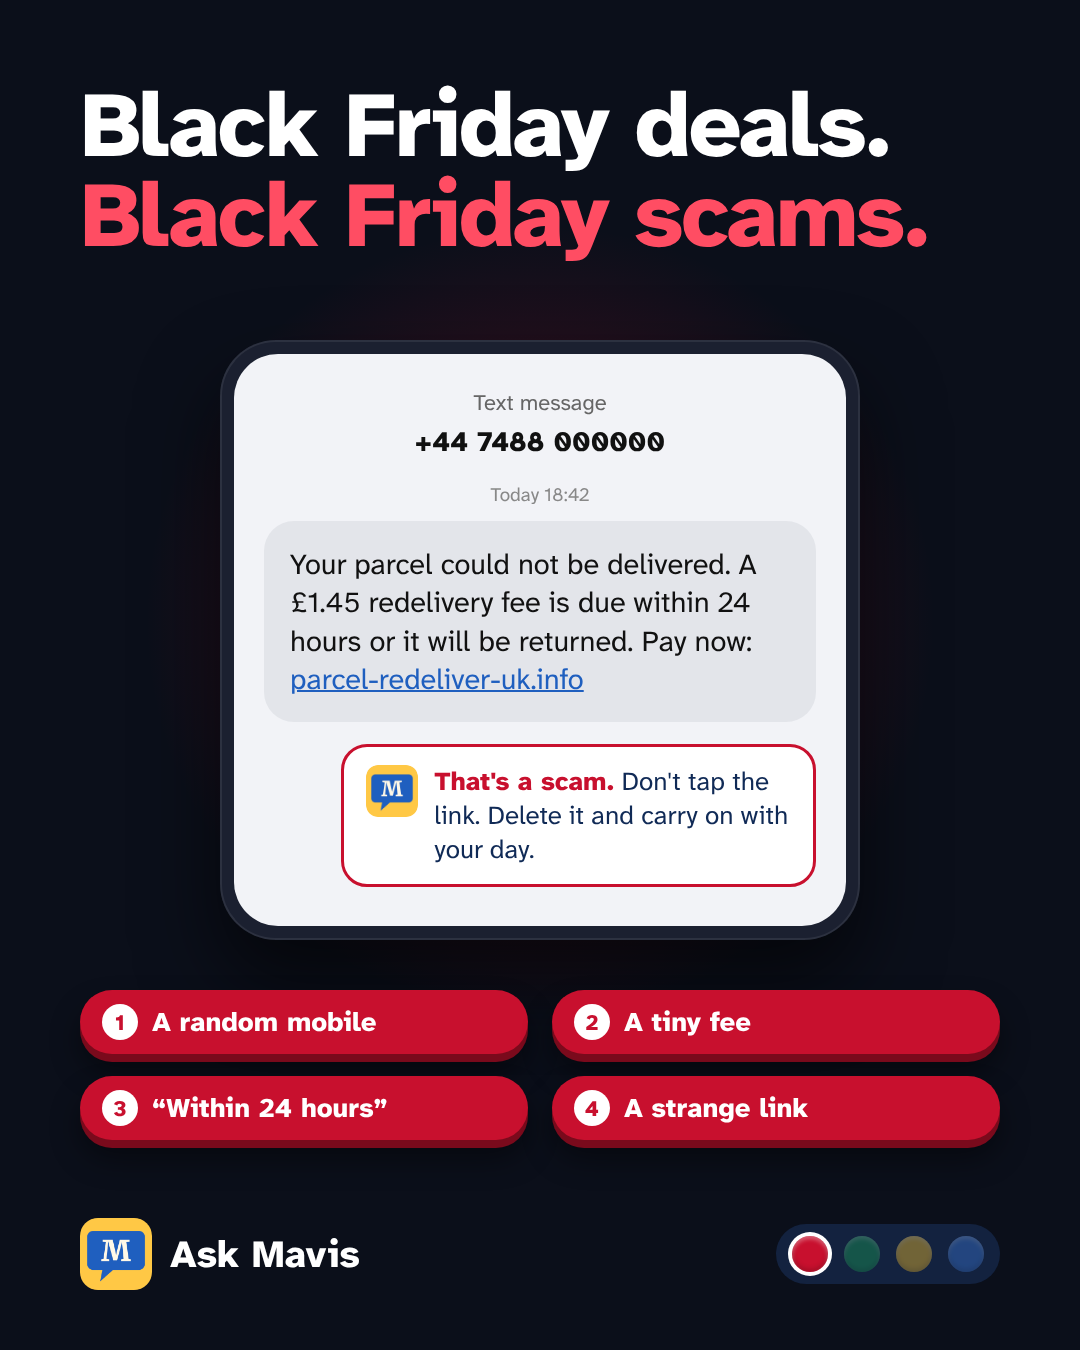
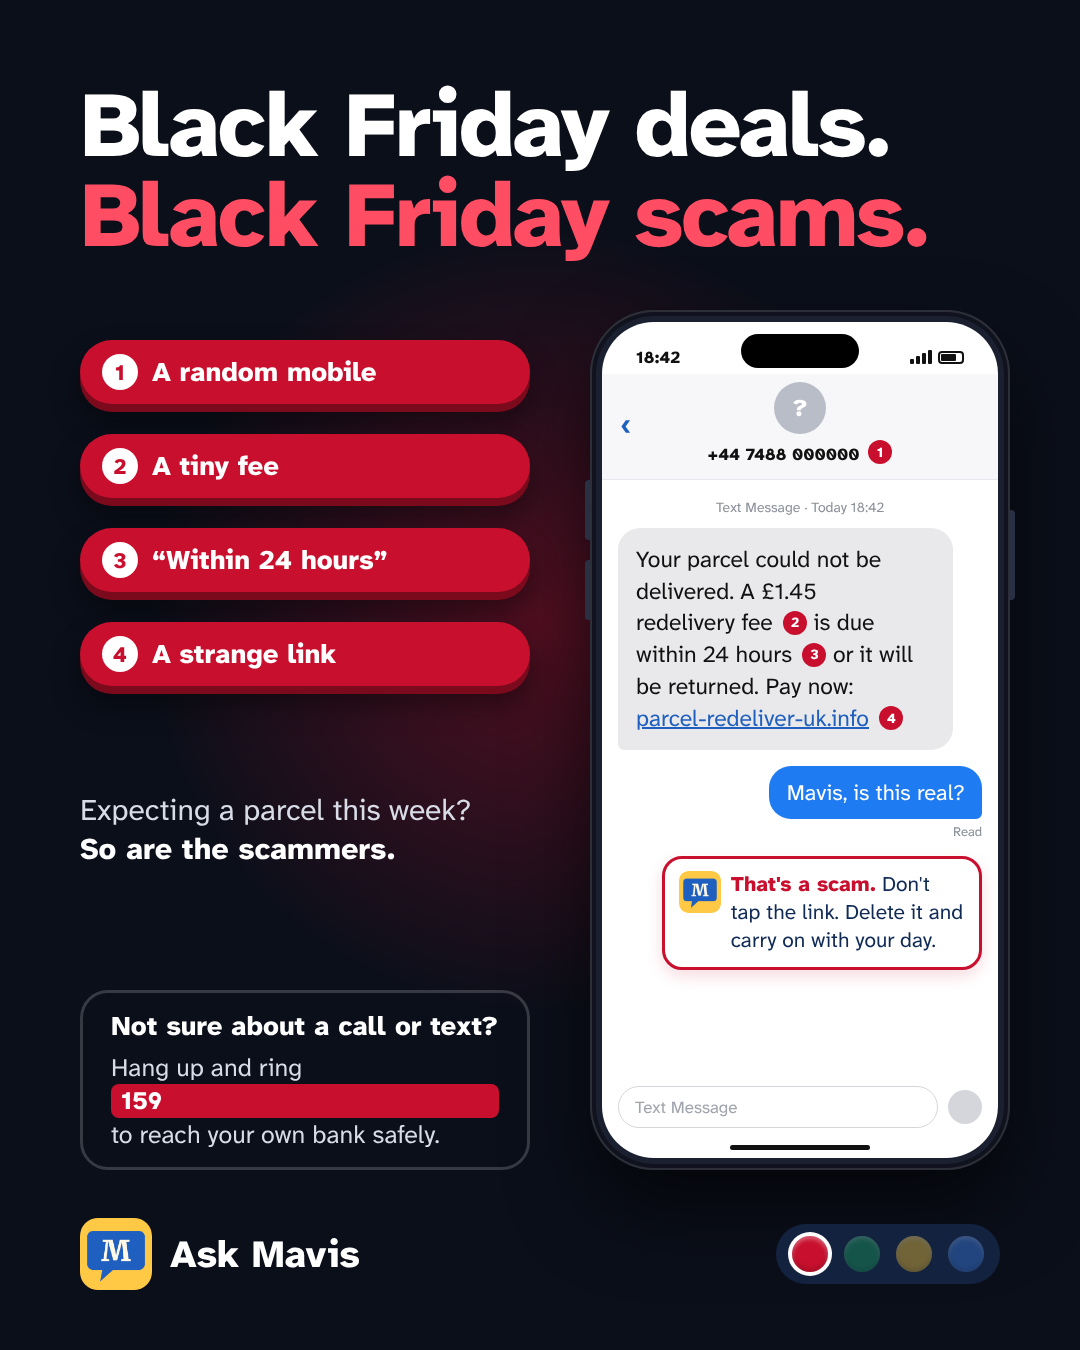
Black Friday post: real phone screen, markers tied to the warning signs
Claude-Session: https://claude.ai/code/session_01Rq6TRiExn4qsVqqTAS9CFn

diff --git a/demo/social/v2/black-friday.html b/demo/social/v2/black-friday.html
@@ -9,17 +9,40 @@ body { background:#999; padding:20px; font-family:"Atkinson Hyperlegible Next", 
 .glow { position:absolute; left:50%; top:620px; width:900px; height:900px; transform:translate(-50%,-50%); background:radial-gradient(circle, rgba(200,16,46,.38) 0%, transparent 62%); }
 h1 { position:absolute; left:var(--m); right:var(--m); top:var(--m); font-weight:800; font-size:92px; line-height:.98; letter-spacing:-2.4px; }
 h1 em { font-style:normal; color:#ff4d63; }
-.phone { position:absolute; left:220px; top:340px; width:640px; height:600px; border-radius:56px; background:#1b2030; padding:14px; box-shadow:0 40px 80px rgba(0,0,0,.6), inset 0 0 0 2px rgba(255,255,255,.08); }
-.screen { width:100%; height:100%; border-radius:44px; background:#f2f3f7; color:#111; padding:34px 30px; overflow:hidden; }
-.from { text-align:center; font-size:22px; color:#666; }
-.from b { display:block; color:#111; font-size:28px; margin-top:6px; }
-.time { text-align:center; font-size:19px; color:#888; margin:22px 0 14px; }
-.bubble { background:#e3e5ea; border-radius:30px; padding:24px 26px; font-size:29px; line-height:1.32; }
-.mavis { margin-top:22px; margin-left:auto; width:86%; display:flex; gap:16px; align-items:flex-start; background:#fff; border:3px solid #C8102E; border-radius:26px; padding:18px 22px; font-size:26px; line-height:1.3; color:#102A56; }
-.mavis img { width:52px; height:52px; border-radius:12px; flex:none; }
+.phone { position:absolute; left:590px; top:310px; width:420px; height:860px; border-radius:64px; background:#1b2030; padding:12px;
+  box-shadow:0 40px 80px rgba(0,0,0,.6), inset 0 0 0 2px rgba(255,255,255,.12), inset 0 0 0 6px #10131d; }
+.phone::before { content:""; position:absolute; right:-5px; top:200px; width:5px; height:90px; border-radius:0 4px 4px 0; background:#2a3043; }
+.phone::after { content:""; position:absolute; left:-5px; top:170px; width:5px; height:60px; border-radius:4px 0 0 4px; background:#2a3043; box-shadow:0 80px 0 #2a3043; }
+.screen { position:relative; width:100%; height:100%; border-radius:52px; background:#fff; color:#111; overflow:hidden; display:flex; flex-direction:column; }
+.island { position:absolute; left:50%; top:12px; width:118px; height:34px; border-radius:20px; background:#000; transform:translateX(-50%); }
+.status { display:flex; justify-content:space-between; align-items:center; padding:18px 34px 0; font-size:17px; font-weight:800; height:52px; }
+.status .ic { display:flex; gap:6px; align-items:center; }
+.status .bars { display:flex; gap:2px; align-items:flex-end; } .status .bars i { width:4px; background:#111; border-radius:1px; }
+.status .batt { width:26px; height:13px; border:2px solid #111; border-radius:4px; position:relative; } .status .batt::after { content:""; position:absolute; inset:1px; right:6px; background:#111; border-radius:1px; }
+.head { text-align:center; padding:8px 20px 14px; border-bottom:1px solid #e6e7ec; background:#f7f7f9; position:relative; }
+.head .back { position:absolute; left:18px; top:30px; color:#1f5fbf; font-size:30px; font-weight:600; }
+.head .av { width:52px; height:52px; border-radius:50%; background:#b9bdc8; margin:0 auto 6px; display:grid; place-items:center; color:#fff; font-weight:800; font-size:24px; }
+.head b { font-size:17px; }
+.thread { flex:1; padding:14px 16px; background:#fff; }
+.time { text-align:center; font-size:14px; color:#8a8f99; margin:4px 0 12px; }
+.bubble { background:#e9e9eb; border-radius:22px 22px 22px 6px; padding:16px 18px; font-size:23px; line-height:1.38; width:92%; }
+.n { display:inline-grid; place-items:center; width:24px; height:24px; border-radius:50%; background:#C8102E; color:#fff; font-size:14px; font-weight:800; vertical-align:3px; margin-left:4px; }
+.mine { margin:16px 0 0 auto; width:fit-content; background:#1f7bf2; color:#fff; border-radius:22px 22px 6px 22px; padding:12px 18px; font-size:22px; }
+.read { text-align:right; font-size:13px; color:#8a8f99; margin-top:4px; }
+.bubble u { color:#1f5fbf; text-decoration-thickness:2px; white-space:nowrap; }
+.mavis { margin-top:16px; margin-left:auto; width:88%; display:flex; gap:10px; align-items:flex-start; background:#fff; border:3px solid #C8102E; border-radius:20px; padding:12px 14px; font-size:21px; line-height:1.32; color:#102A56; box-shadow:0 6px 16px rgba(200,16,46,.15); }
+.mavis img { width:42px; height:42px; border-radius:9px; flex:none; }
 .mavis b { color:#C8102E; }
-.bubble u { color:#1f5fbf; text-decoration-thickness:2px; }
-.tags { position:absolute; left:var(--m); right:var(--m); top:990px; display:grid; grid-template-columns:1fr 1fr; gap:22px 24px; }
+.input { display:flex; align-items:center; gap:10px; padding:12px 16px 30px; }
+.input span { flex:1; height:42px; border:1.5px solid #d4d6dc; border-radius:21px; padding:0 16px; display:flex; align-items:center; color:#a0a4ad; font-size:17px; }
+.input i { width:34px; height:34px; border-radius:50%; background:#d4d6dc; flex:none; }
+.homebar { position:absolute; left:50%; bottom:8px; width:140px; height:5px; border-radius:3px; background:#111; transform:translateX(-50%); }
+.tags { position:absolute; left:var(--m); width:450px; top:340px; display:grid; gap:30px; }
+.lead { position:absolute; left:var(--m); width:450px; top:790px; font-size:30px; line-height:1.3; color:#d8dce6; }
+.lead b { color:#fff; }
+.tip { position:absolute; left:var(--m); width:450px; top:990px; height:180px; display:flex; flex-direction:column; justify-content:center; border:3px solid rgba(255,255,255,.18); border-radius:28px; padding:24px 28px; font-size:25px; line-height:1.35; color:#d8dce6; }
+.tip b { display:block; color:#fff; font-size:27px; margin-bottom:6px; }
+.tip span { color:#fff; font-weight:800; background:#C8102E; padding:0 10px; border-radius:8px; }
 .tag { display:flex; align-items:center; gap:14px; background:var(--red); color:#fff; font-weight:800; font-size:27px; padding:14px 22px; border-radius:999px; box-shadow:0 8px 0 #7a0a1c, 0 18px 30px rgba(0,0,0,.45); white-space:nowrap; }
 .tag i { font-style:normal; width:36px; height:36px; border-radius:50%; background:#fff; color:var(--red); display:grid; place-items:center; font-size:22px; flex:none; }
 .sig { position:absolute; left:var(--m); right:var(--m); bottom:60px; height:72px; display:flex; align-items:center; justify-content:space-between; }
@@ -33,11 +56,18 @@ h1 em { font-style:normal; color:#ff4d63; }
   <div class="glow"></div>
   <h1>Black Friday deals.<br><em>Black Friday scams.</em></h1>
   <div class="phone"><div class="screen">
-    <p class="from">Text message<b>+44 7488 000000</b></p>
-    <p class="time">Today 18:42</p>
-    
-    <div class="bubble">Your parcel could not be delivered. A £1.45 redelivery fee is due within 24 hours or it will be returned. Pay now: <u>parcel-redeliver-uk.info</u></div>
-    <div class="mavis"><img src="logo.png" alt=""><span><b>That's a scam.</b> Don't tap the link. Delete it and carry on with your day.</span></div>
+    <div class="island"></div>
+    <div class="status"><span>18:42</span><span class="ic"><span class="bars"><i style="height:5px"></i><i style="height:8px"></i><i style="height:11px"></i><i style="height:14px"></i></span><span class="batt"></span></span></div>
+    <div class="head"><span class="back">&lsaquo;</span><div class="av">?</div><b>+44 7488 000000</b> <span class="n">1</span></div>
+    <div class="thread">
+      <p class="time">Text Message &middot; Today 18:42</p>
+      <div class="bubble">Your parcel could not be delivered. A &pound;1.45 redelivery&nbsp;fee&nbsp;<span class="n">2</span> is due within 24&nbsp;hours&nbsp;<span class="n">3</span> or it will be returned. Pay&nbsp;now: <u>parcel-redeliver-uk.info</u> <span class="n">4</span></div>
+      <div class="mine">Mavis, is this real?</div>
+      <p class="read">Read</p>
+      <div class="mavis"><img src="logo.png" alt=""><span><b>That's a scam.</b> Don't tap the link. Delete it and carry on with your day.</span></div>
+    </div>
+    <div class="input"><span>Text Message</span><i></i></div>
+    <div class="homebar"></div>
   </div></div>
   <div class="tags">
     <div class="tag"><i>1</i>A random mobile</div>
@@ -45,6 +75,8 @@ h1 em { font-style:normal; color:#ff4d63; }
     <div class="tag"><i>3</i>&ldquo;Within 24 hours&rdquo;</div>
     <div class="tag"><i>4</i>A strange link</div>
   </div>
+  <p class="lead">Expecting a parcel this week?<br><b>So are the scammers.</b></p>
+  <div class="tip"><b>Not sure about a call or text?</b>Hang up and ring <span>159</span> to reach your own bank safely.</div>
   <div class="sig"><div class="mark"><img src="logo.png" alt="">Ask Mavis</div><div class="keys"><i class="on" style="background:#C8102E"></i><i style="background:#19A35A"></i><i style="background:#FFC72C"></i><i style="background:#3B7BE0"></i></div></div>
 </section>
 </body></html>
